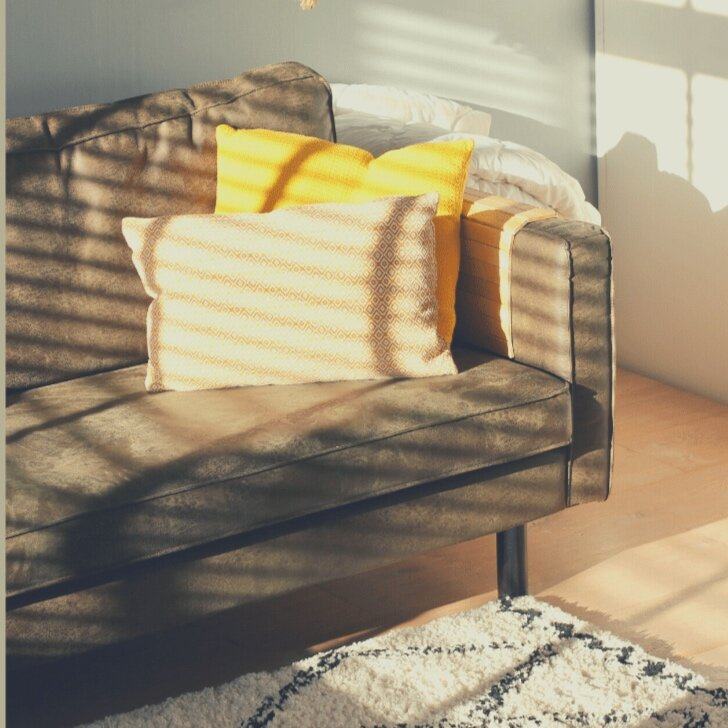
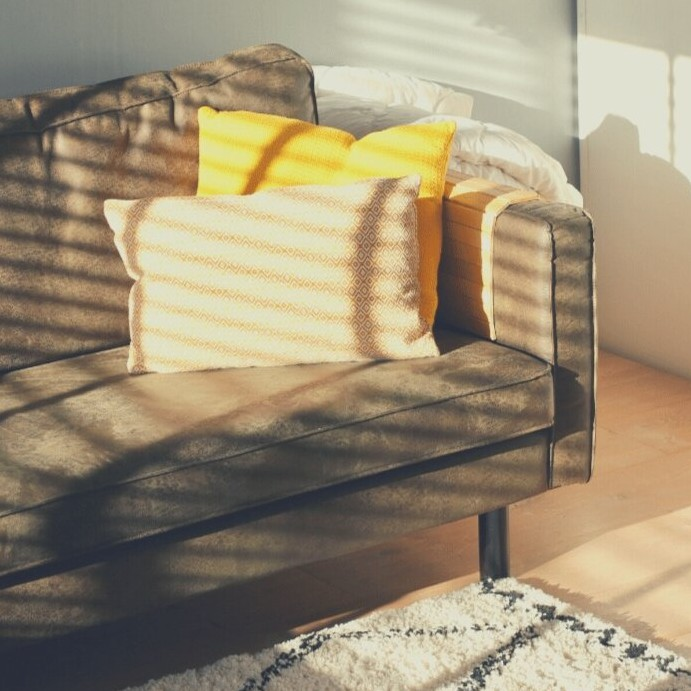
fix: fixed docker-compose and safety

diff --git a/backend/index.js b/backend/index.js
@@ -23,7 +23,11 @@ const storage = multer.diskStorage({
 });
 export const upload = multer({ storage: storage });
 
-dotenv.config();
+// Only Local (without docker-compose)
+// dotenv.config({
+//   path: path.resolve(process.cwd(), '../.env'),
+// });
+
 const port = 5000;
 const app = express();
 

diff --git a/frontend/src/store/api/axiosInstance.ts b/frontend/src/store/api/axiosInstance.ts
@@ -2,7 +2,7 @@ import axios, { AxiosError } from "axios";
 import { AppDispatch } from "../hooks";
 import { logoutAdmin } from "../slices";
 
-const baseURL = 'https://api.razvalyaeva.com/';
+const baseURL = process.env.REACT_APP_API_URL;
 
 export const axiosInstance = axios.create({
   baseURL,
